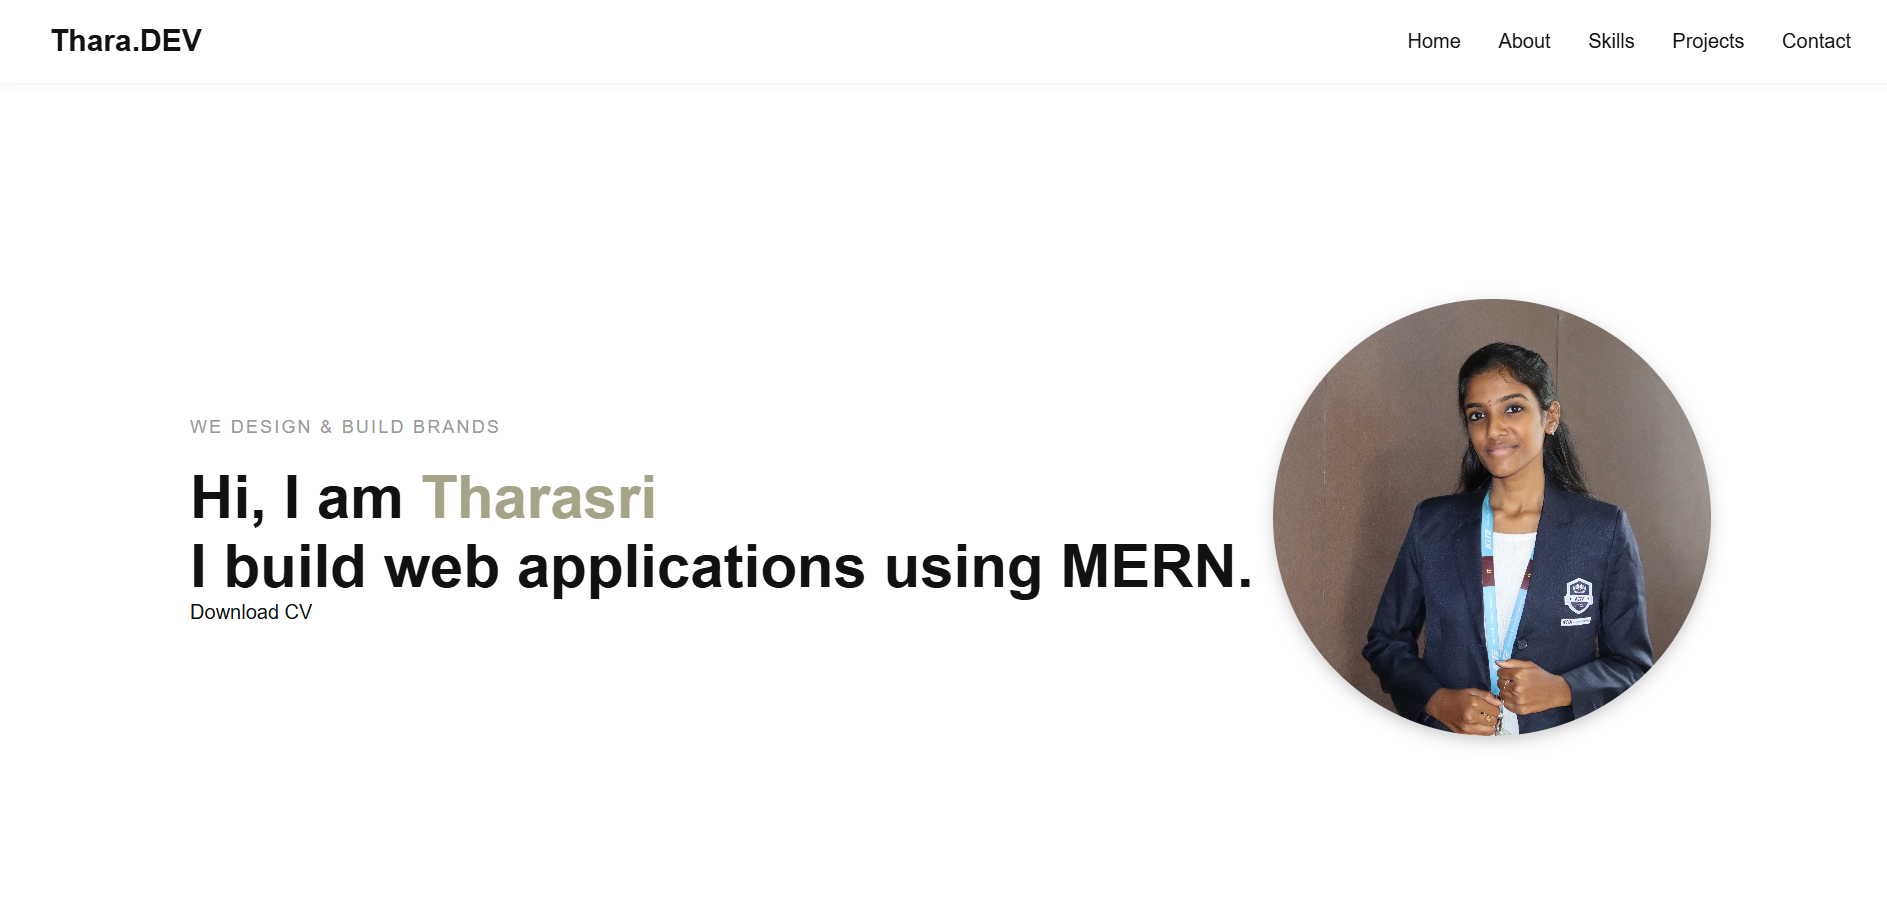
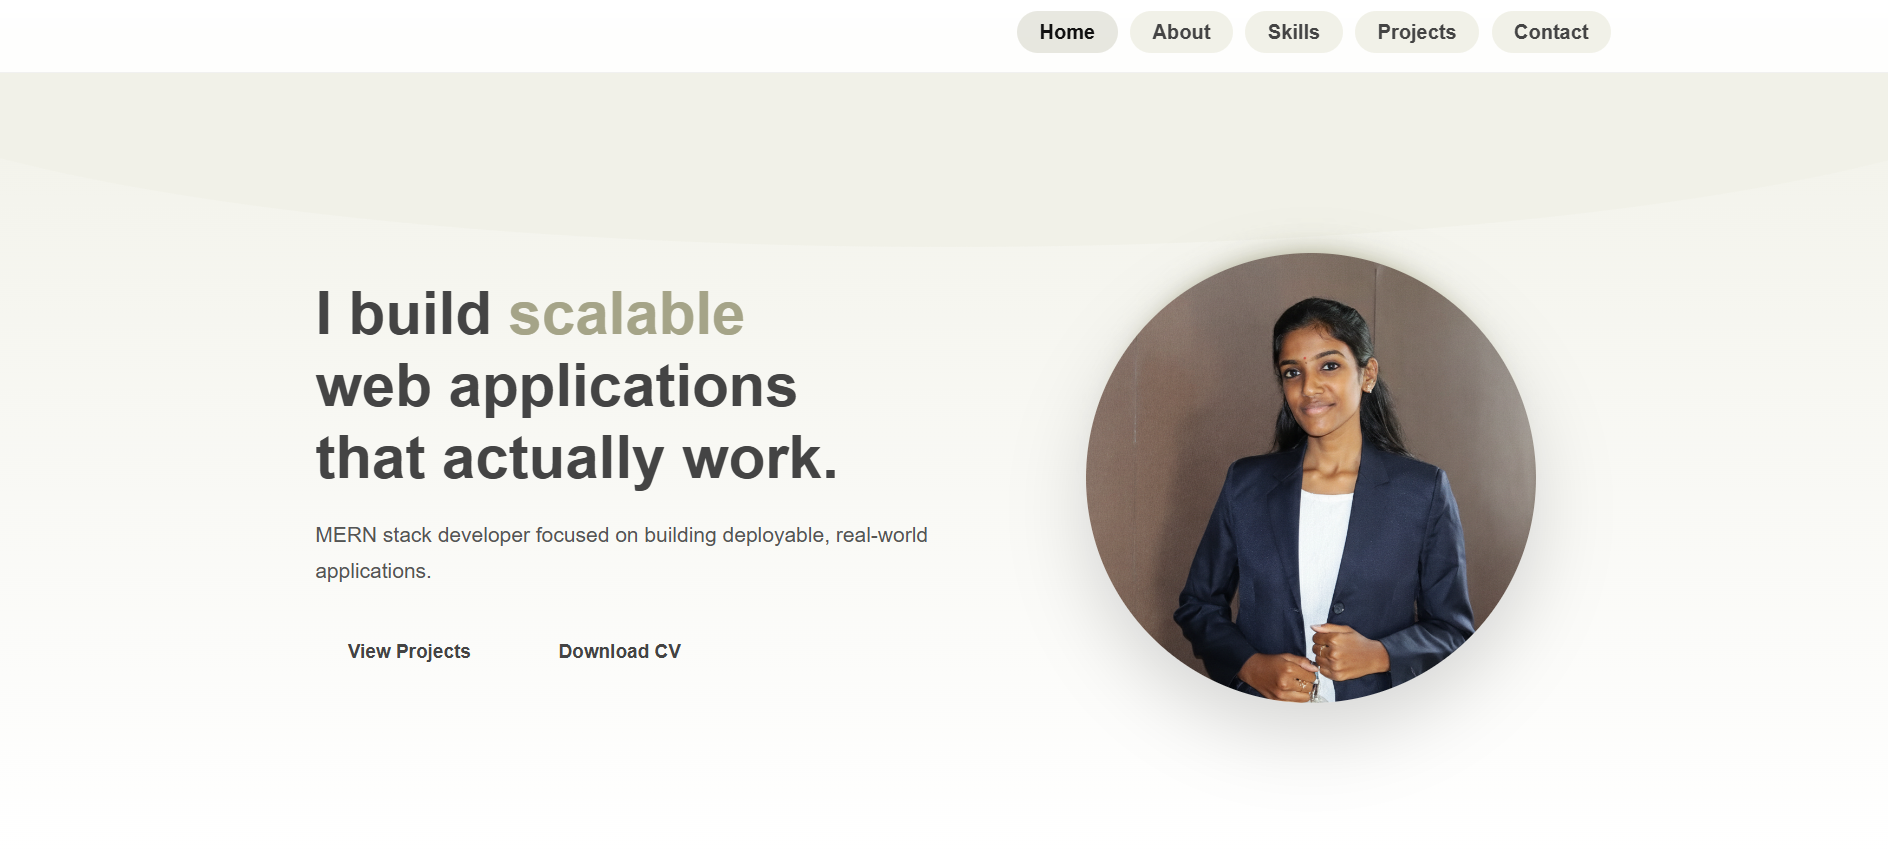
profile updated

diff --git a/frontend/client/src/components/Projects.jsx b/frontend/client/src/components/Projects.jsx
@@ -1,6 +1,6 @@
 import pro1 from "../assets/projects/pro1.png";
-import pro2 from "../assets/projects/pro1.png";
-import pro3 from "../assets/projects/pro1.png";
+import pro2 from "../assets/projects/pro2.png";
+// import pro3 from "../assets/projects/pro1.png";
 
 
 export default function Projects() {
@@ -11,7 +11,7 @@ export default function Projects() {
 
         <div className="projects-list">
           {/* PROJECT 1 */}
-          <div className="project-row">
+          {/* <div className="project-row">
             <div className="project-content">
               <span className="project-tag">MERN + Blockchain</span>
 
@@ -36,12 +36,12 @@ export default function Projects() {
             <div className="project-media">
 <img src={pro1} alt="Disaster Fund Project" />
             </div>
-          </div>
+          </div> */}
 
           {/* PROJECT 2 */}
           <div className="project-row">
             <div className="project-content">
-              <span className="project-tag">React + Vite</span>
+              <span className="project-tag"></span>
 
               <h3>Portfolio Website</h3>
 
@@ -52,10 +52,36 @@ export default function Projects() {
               </p>
 
               <div className="project-actions">
-                <a href="#" className="btn btn-primary">
+                <a href="https://portfolio-xi-livid-95.vercel.app/" className="btn btn-primary">
                   See Live
                 </a>
-                <a href="#" className="btn btn-outline">
+                <a href="https://github.com/Tharasri78/portfolio" className="btn btn-outline">
+                  Source Code
+                </a>
+              </div>
+            </div>
+
+            <div className="project-media">
+<img src={pro1} alt="Disaster Fund Project" />
+            </div>
+          </div>
+
+          {/* PROJECT 3 */}
+          <div className="project-row">
+            <div className="project-content">
+              <span className="project-tag">MERN</span>
+
+              <h3>Microblogging Platform</h3>
+
+              <p>
+                A MERN stack application for creating and displaying short posts, featuring RESTful APIs, MongoDB persistence, and a responsive React frontend with clear separation of frontend and backend responsibilities.
+              </p>
+
+              <div className="project-actions">
+                <a href="https://micro-blogging-web.vercel.app/" className="btn btn-primary">
+                  See Live
+                </a>
+                <a href="https://github.com/Tharasri78/FWD-capstone" className="btn btn-outline">
                   Source Code
                 </a>
               </div>
@@ -63,33 +89,6 @@ export default function Projects() {
 
             <div className="project-media">
 <img src={pro2} alt="Disaster Fund Project" />
-            </div>
-          </div>
-
-          {/* PROJECT 3 */}
-          <div className="project-row">
-            <div className="project-content">
-              <span className="project-tag">HTML + CSS + Backend</span>
-
-              <h3>Registration System</h3>
-
-              <p>
-                Backend-driven registration system with validation, database
-                integration, secure form handling, and structured data flow.
-              </p>
-
-              <div className="project-actions">
-                <a href="#" className="btn btn-primary">
-                  See Live
-                </a>
-                <a href="#" className="btn btn-outline">
-                  Source Code
-                </a>
-              </div>
-            </div>
-
-            <div className="project-media">
-<img src={pro3} alt="Disaster Fund Project" />
             </div>
           </div>
         </div>

diff --git a/frontend/client/src/components/Hero.jsx b/frontend/client/src/components/Hero.jsx
@@ -1,4 +1,4 @@
-import profile from "../assets/profile.JPG";
+import profile from "../assets/profile.png";
 
 export default function Hero() {
   return (
@@ -7,7 +7,7 @@ export default function Hero() {
         
         {/* LEFT CONTENT */}
         <div className="hero-content">
-          <span className="hero-badge">MERN Stack Developer</span>
+          {/* <span className="hero-badge">MERN Stack Developer</span> */}
 
           <h1 className="hero-title">
             I build <span>scalable</span><br />
@@ -15,10 +15,9 @@ export default function Hero() {
             that actually work.
           </h1>
 
-          <p className="hero-subtitle">
-            Hi, I’m <strong>Tharasri</strong> — a full-stack developer focused on
-            clean architecture, modern UI, and real-world MERN applications.
-          </p>
+<p className="hero-subtitle">
+  MERN stack developer focused on building deployable, real-world applications.
+</p>
 
           <div className="hero-actions">
             <a href="#projects" className="btn primary">

diff --git a/frontend/client/src/components/About.jsx b/frontend/client/src/components/About.jsx
@@ -11,13 +11,10 @@ export default function About() {
          
 
           <p className="about-description">
-            I’m Tharasri, a MERN Stack Developer focused on creating
-            maintainable full-stack applications with clean architecture,
-            performance in mind, and modern UI practices.
-          </p>
+I’m Tharasri, a MERN stack developer who builds complete web applications with clean frontend–backend integration, readable code, and maintainable systems.          </p>
 
           <blockquote className="about-quote">
-            “Design is intelligence made visible. Code brings it to life.”
+            {/* “Design is intelligence made visible. Code brings it to life.” */}
           </blockquote>
         </div>
 

diff --git a/frontend/client/index.html b/frontend/client/index.html
@@ -2,9 +2,8 @@
 <html lang="en">
   <head>
     <meta charset="UTF-8" />
-    <link rel="icon" type="image/svg+xml" href="/vite.svg" />
     <meta name="viewport" content="width=device-width, initial-scale=1.0" />
-    <title>client</title>
+    <title>Portfolio</title>
   </head>
   <body>
     <div id="root"></div>
